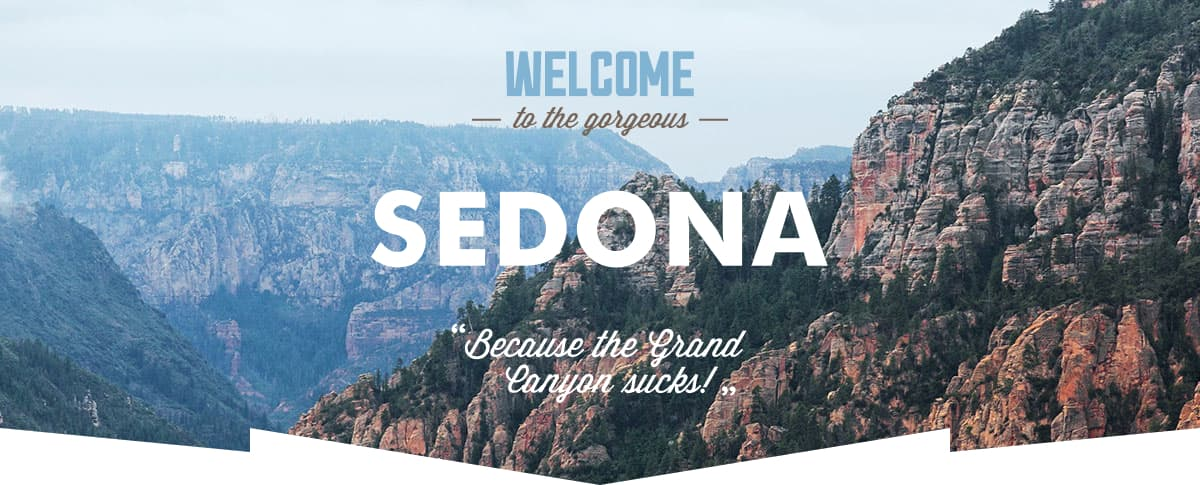
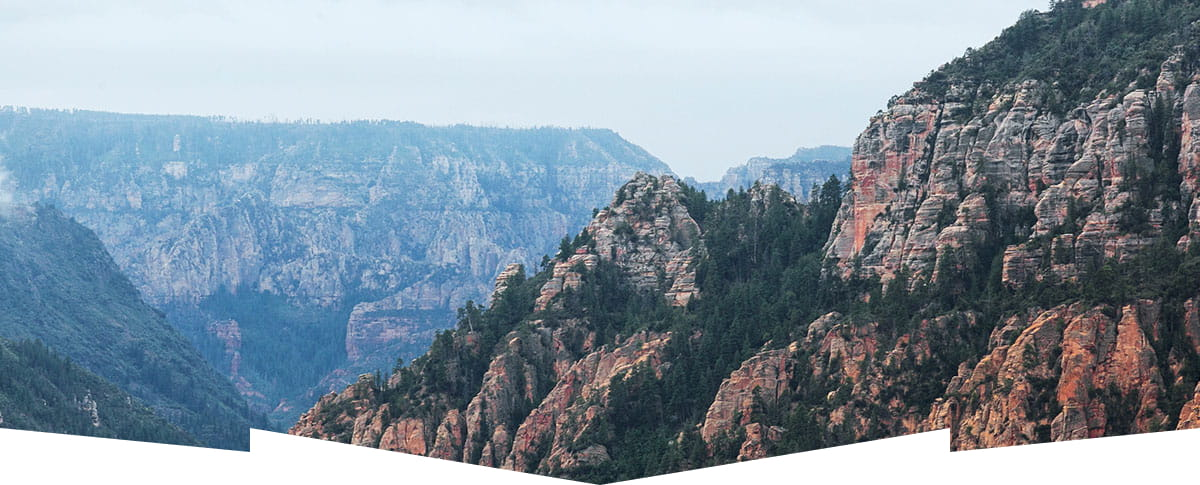
Вставляет иконки сортировки

Changed region(s): [[0.3083, 0.3711, 0.7092, 0.5567], [0.4008, 0.0928, 0.5858, 0.2784], [0.37, 0.6495, 0.6167, 0.8351]]

diff --git a/catalog.html b/catalog.html
@@ -113,17 +113,20 @@
             <ul class="catalog-sorting-view-list">
                 <li class="catalog-sorting-view-item">
                     <a class="button-sorting button-sorting-active" href="#">
+                        <img src="images/sorting-icons/sorting-cards.svg" width="16" height="14" alt="">
                         <span class="visually-hidden">Показать в виде карточек</span>
                     </a>
                 </li>
                 <li class="catalog-sorting-view-item">
                     <a class="button-sorting" href="#">
-                        <span class="visually-hidden">Показать в виде крупных карточек</span>
+                        <img src="images/sorting-icons/sorting-column.svg" width="16" height="14" alt="">
+                        <span class="visually-hidden">Показать одной колонкой</span>
                     </a>
                 </li>
                     <li class="catalog-sorting-view-item">
                     <a class="button-sorting" href="#">
-                        <span class="visually-hidden">Показать в виде списка</span>
+                        <img src="images/sorting-icons/sorting-list.svg" width="16" height="14" alt="">
+                        <span class="visually-hidden">Показать списком</span>
                     </a>
                 </li>
             </ul>

diff --git a/index.html b/index.html
@@ -31,6 +31,7 @@
           <li class="navigation-user-item">
             <a class="navigation-user-link" href="#">
               <span class="visually-hidden">Избранное</span>
+              <span class="favorites-number">12</span>
             </a>
           </li>
         </ul>
@@ -40,7 +41,6 @@
     <main class="main-index">
       <section class="hero">
         <h1 class="visually-hidden">Город Седона</h1>
-        <img src="#" width="1200" height="485" alt="Вид на покрытые зеленью скалы и небо.">
       </section>
       <section class="description">
         <h2 class="visually-hidden">Описание</h2>
